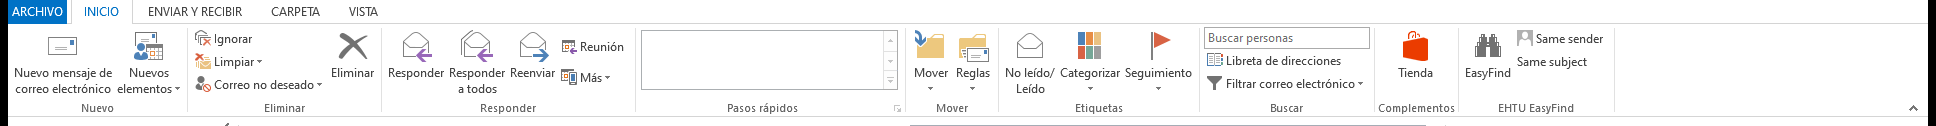
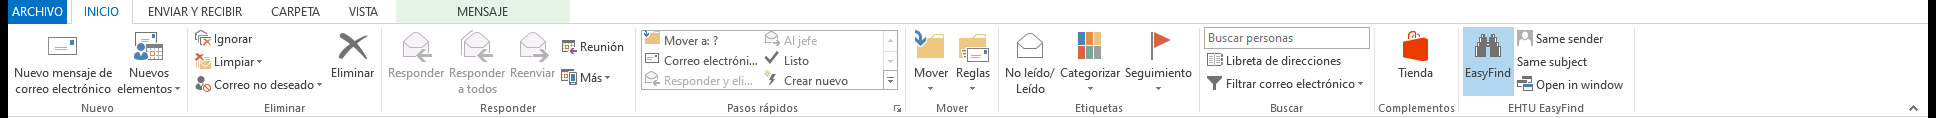
Docs for EasyFind 1.1.0

diff --git a/README.md b/README.md
@@ -15,7 +15,8 @@ directly, so it works even when Outlook's own search index is incomplete or disa
 
 Run the setup as the user who uses Outlook – no administrator rights are needed. If Outlook is open the
 setup asks to close it and starts it again. The add-in appears on the **Home** tab of the mail view as
-the **EHTU EasyFind** group.
+the **EHTU EasyFind** group; the **EasyFind** button shows the search pane docked at the right of the
+Outlook window (or use *Open in window* for a separate window).
 
 Updating: run a newer installer over the old one, or click the *Update available* link that EasyFind
 shows in its window when a new release is published here.
@@ -27,7 +28,7 @@ the certificate on their PCs (import [`docs/EHTU-CodeSigning.cer`](docs/EHTU-Cod
 *Trusted Root Certification Authorities* and *Trusted Publishers*, e.g. through Group Policy); the
 signature then verifies as trusted.
 
-<p align="center"><img src="docs/assets/easyfind-window.png" alt="EasyFind window" width="700"></p>
+<p align="center"><img src="docs/assets/easyfind-pane.png" alt="EasyFind pane docked in Outlook" width="420"></p>
 <p align="center"><img src="docs/assets/easyfind-ribbon.png" alt="EHTU EasyFind group on the Home tab" width="900"></p>
 
 ## Requirements
@@ -40,6 +41,7 @@ signature then verifies as trusted.
 
 ## Features
 
+- **Pane inside Outlook** (docked at the right, resizable) or a separate window – your choice.
 - Exact substring search (`1234` finds `ABC-1234`), optional *case sensitive* and *whole word*.
 - Look in Subject, From, To, CC, BCC, Body and attachment names, in any combination.
 - Scope: current folder, current folder + subfolders, a whole mailbox or PST, everything, or any
@@ -56,7 +58,7 @@ Documentation: [User guide](docs/USER-GUIDE.md) · [Troubleshooting](docs/TROUBL
 ## Silent installation
 
 ```bat
-EasyFindSetup-1.0.0.exe /VERYSILENT /NORESTART /CLOSEAPPLICATIONS /RESTARTAPPLICATIONS
+EasyFindSetup-1.1.0.exe /VERYSILENT /NORESTART /CLOSEAPPLICATIONS /RESTARTAPPLICATIONS
 ```
 
 Uninstall from *Windows Settings → Apps → EHTU EasyFind for Outlook*.

diff --git a/docs/USER-GUIDE.md b/docs/USER-GUIDE.md
@@ -7,14 +7,17 @@ tab, after *Find* / *Add-ins*):
 
 | Button | What it does |
 |---|---|
-| **EasyFind** | Opens the search window. |
-| **Same sender** | Opens the window and immediately searches every message from the sender of the selected message. |
+| **EasyFind** | Shows / hides the **EasyFind pane**, docked at the right of Outlook's main window (like the To-Do bar). Drag its left edge to resize it; the width is remembered. |
+| **Same sender** | Shows the pane and immediately searches every message from the sender of the selected message. |
 | **Same subject** | Same, with the subject of the selected message (RE:/FW:/FWD:/RV:/TR:… prefixes are ignored). |
+| **Open in window** | Opens EasyFind in a separate, larger window instead (also available from the *Open in window* button inside the pane). |
 
-The same buttons are on the ribbon of an opened message (**Message** tab). Keyboard: press `Alt`,
-then the key tips, `EF` opens EasyFind.
+The *Same sender* / *Same subject* / *Open in window* buttons are also on the ribbon of an opened
+message (**Message** tab); they use the pane of the main window. Keyboard: press `Alt`, then the key
+tips, `EF` toggles the pane.
 
-The window stays open next to Outlook; you can keep working in Outlook while a search runs.
+The pane and the window are the same search tool; the pane is convenient for everyday use, the window
+gives more room for the results. Outlook stays usable while a search runs in either.
 
 ## Running a search
 
